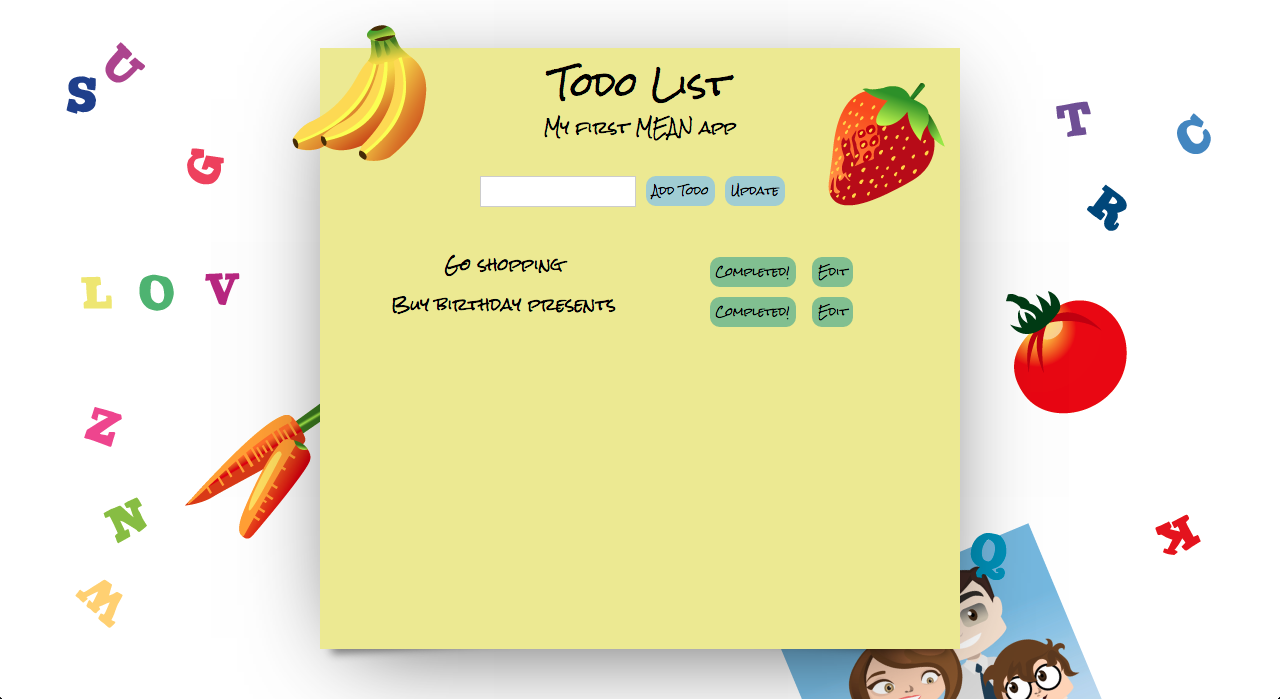
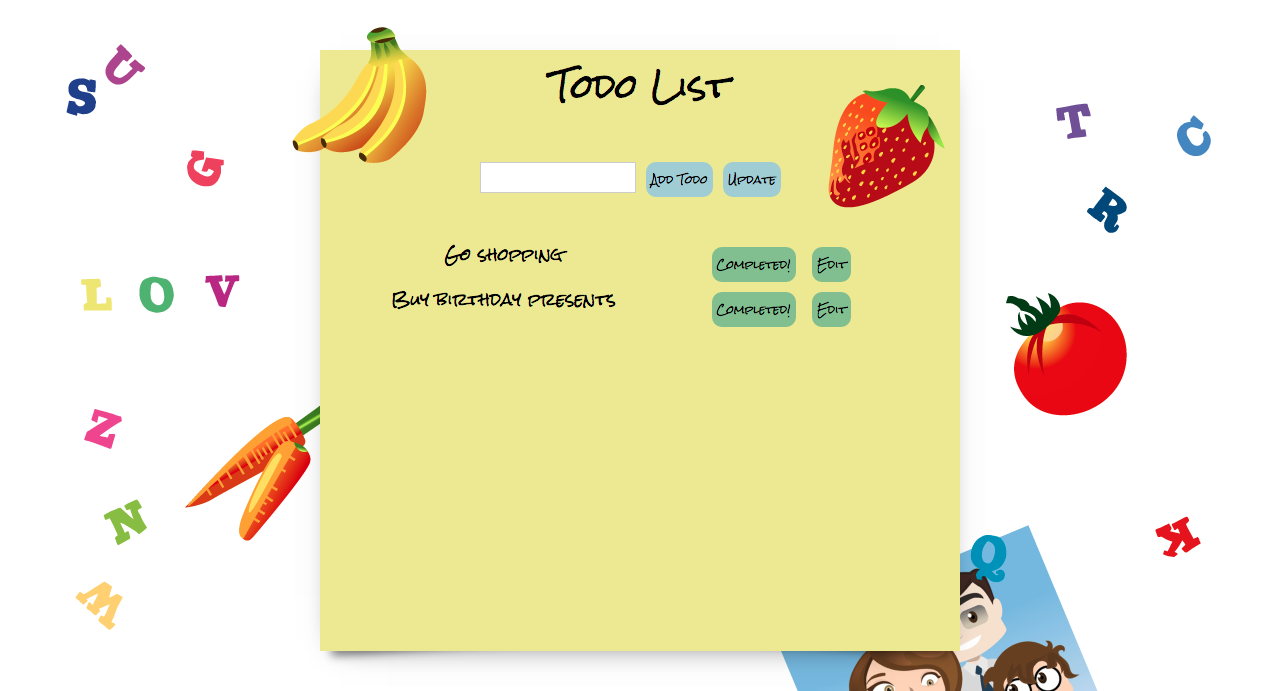
screenshot

diff --git a/public/css/main.css b/public/css/main.css
@@ -8,9 +8,9 @@ html{
 body{
   background-color: #EDEA85;
   margin-top: 50px;
-  -webkit-box-shadow: 0px 20px 161px -31px rgba(0,0,0,0.75);
-  -moz-box-shadow: 0px 20px 161px -31px rgba(0,0,0,0.75);
-  box-shadow: 0px 20px 161px -31px rgba(0,0,0,0.75);
+  -webkit-box-shadow: 0px 20px 50px -20px rgba(0,0,0,0.75);
+  -moz-box-shadow: 0px 10px 50px -20px rgba(0,0,0,0.75);
+  box-shadow: 0px 10px 50px -20px rgba(0,0,0,0.75);
   position: relative;
   overflow-y: scroll;
 }
